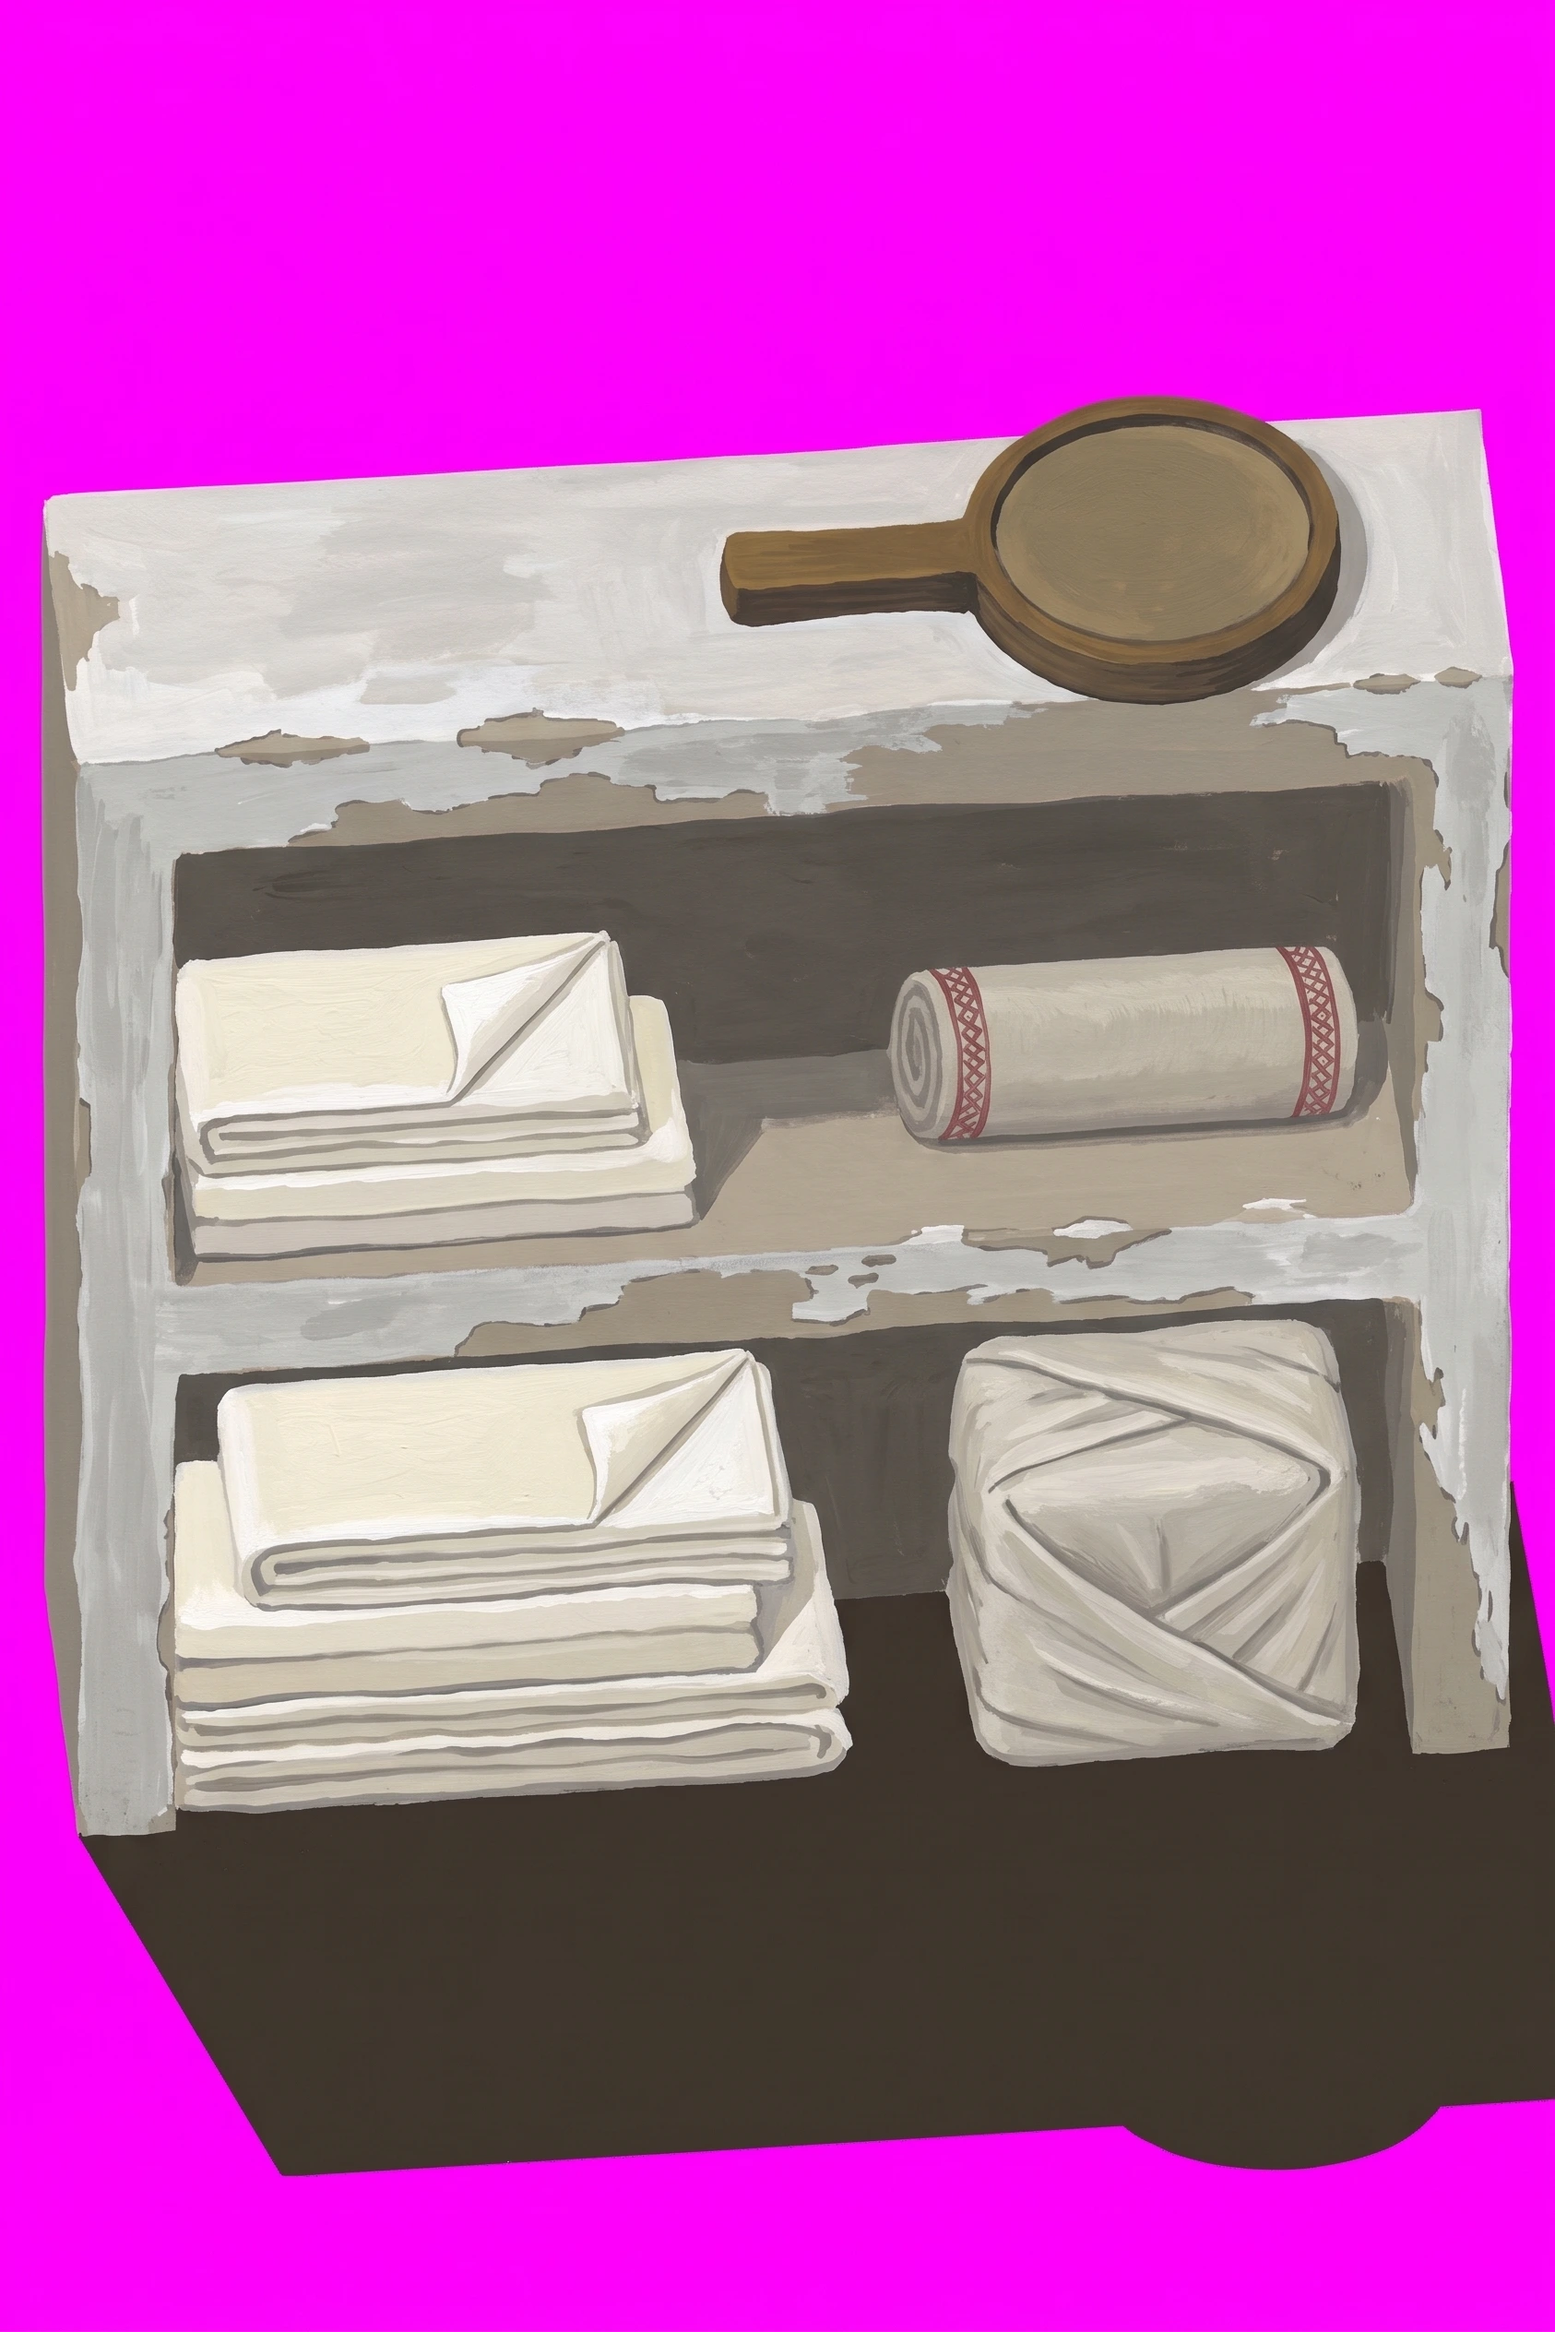
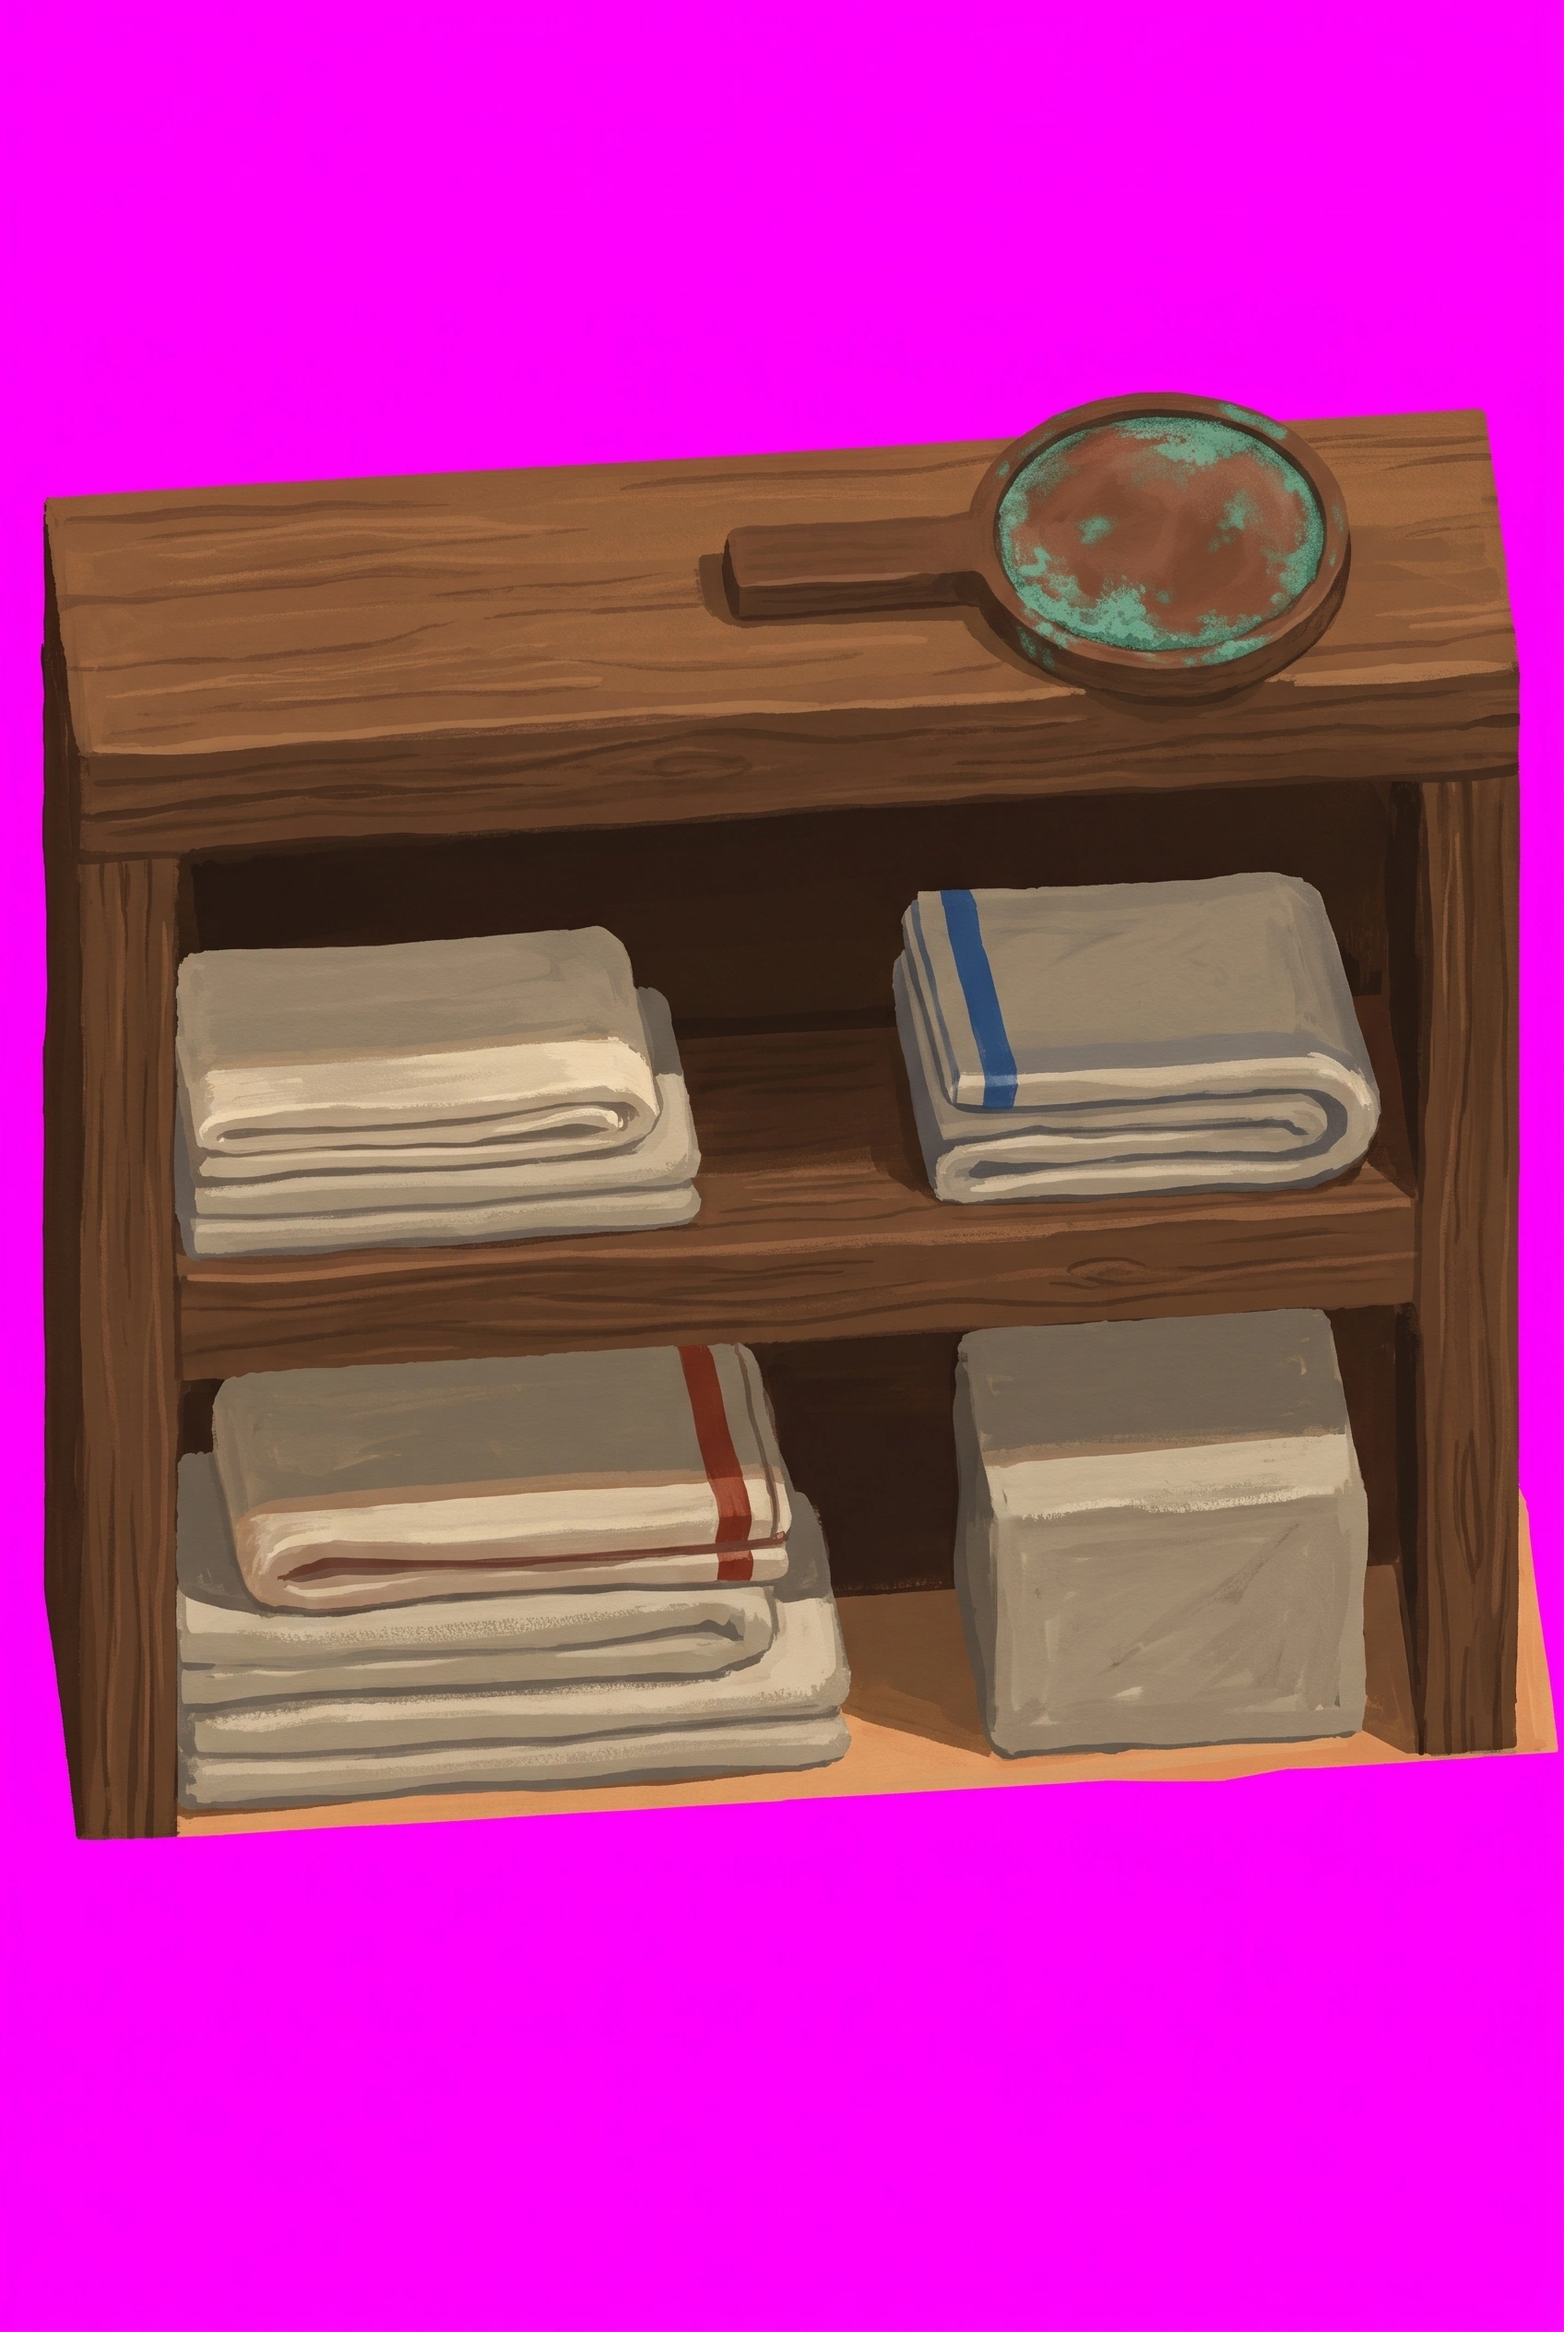
art: junior linen press
Claude-Session: https://claude.ai/code/session_01F6g2diRzQCzQwEf9zsEEGH

diff --git a/docs/instructions/repaint-queue.md b/docs/instructions/repaint-queue.md
@@ -483,7 +483,7 @@ Even lighting left to right, no hotspot, no vignette.
 
 ---
 
-## Nobleman — thirty-three
+## Nobleman — thirty-two
 
 The nobleman's existing props, repainted for the rank's new light orange floor. Each is its own thing
 first: cedar is cedar, linen is linen, pottery is pottery, painted in red ochre, Egyptian blue and leaf
@@ -506,40 +506,6 @@ The last nine are the house's own kinds, new with its activities ([themed-rooms.
 § Junior): each has a primitive of its own in `renderProp.py` and a guarded block in `art/rebuild.sh`. The
 banquet table and the bed are two cells across, so their frame is landscape three by two; the harp and the
 potted tree stand a cell taller, so theirs is portrait two by five.
-
-### `junior/shelf` — a cedar linen press, folded linen
-
-**Re-roll:** the rank's palette moved (2026-11-03, `Topology/Palette moodboard`). Repainted against the new light orange floor, in its own material's colours; copper only as a trim.
-
-**Attach:**
-
-1. `~/tile-previews/shelf-junior.png` — the scaffold
-2. `~/tile-previews/junior-plain.png` — the material reference
-
-```
-A wall-less product shot of a single object, painted in flat matte gouache, no background, on pure magenta #FF00FF. Portrait, two units wide by three tall, exactly as the reference. Do not re-compose it into a square. Paint over the reference image itself.
-
-The object: a LINEN PRESS. The open frame is the CARCASS; the stacks on its shelves are folded LINEN; the
-round disc on a handle lying on the top course is a hand MIRROR.
-
-The carcass is dark oiled CEDAR #6b4226, #7a4a2a on its top faces and #4a2c1a in shade, its grain running
-along each board. The linen is unbleached and sits in the press's shade: a warm greige #9a8a6c, only the
-front fold of each stack catching the light at #d8c8a8, one stack edged with a red ochre #8a3a2a stripe
-and one with Egyptian blue #2a5a9a. The mirror is copper #8a4022 on a cedar handle, gone verdigris
-#4f9a86 at its rim. The press stands well DARKER than the light orange floor #e2a86f.
-
-Keep every edge, every proportion and every silhouette exactly as in the reference image — do not move, resize, straighten, add, remove or restyle any part of it, and do not change the angle it stands at. Paint only material and wear.
-
-No highlights, no gloss, no rim light, no ground plane, no reflections. Matte throughout, evenly lit, crisp and clean. Nobleman's house: orange sandstone, painted plaster, cedar, linen, reed and pottery, each in its OWN colours so it reads at a glance as what it is. Copper is an accent only — a rim, a band, a hasp, gone verdigris green at the edges — never a tint over the whole object.
-```
-
-Then, once the return is in `~/Downloads`:
-
-```sh
-scaffold shelf --contents=linen --spin=5 --colour=#6b4226 --colour-cloth=#9a8a6c --floor=#e2a86f
-yarn import-tile art/masters/props/junior/shelf.webp --tier=junior --name=shelf --slot=prop \
-  --filter=smooth --mask="$OBJ" --seat="$SHADOW"
-```
 
 ### `junior/basin` — a copper ablution bowl on a cedar stand
 
